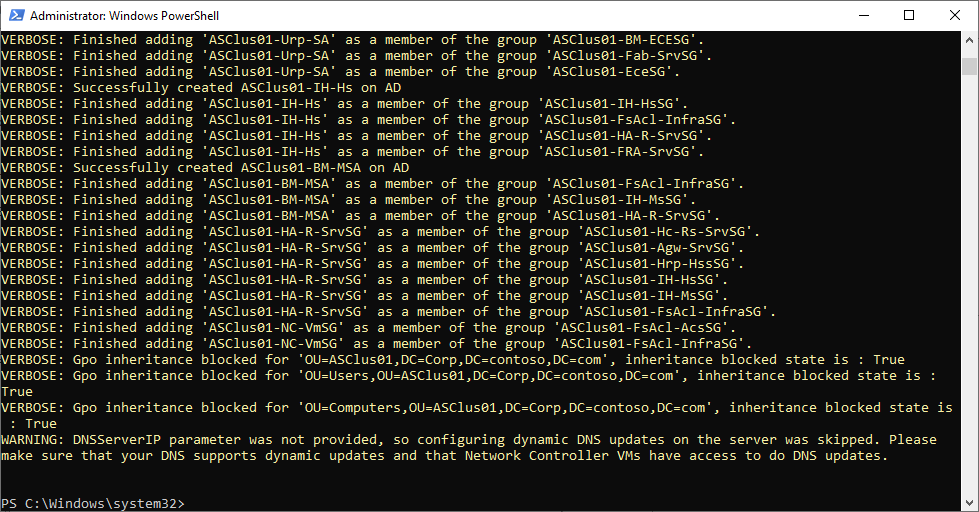
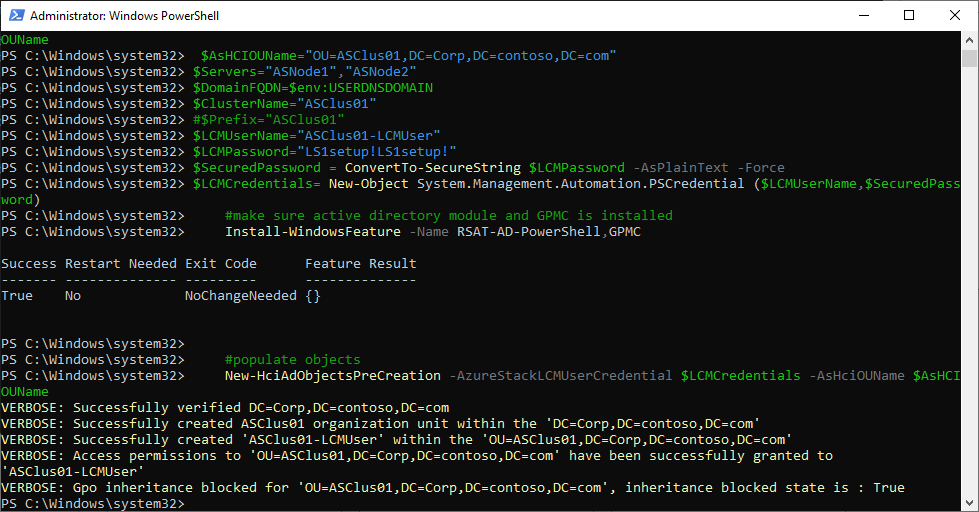
2402 update

diff --git a/lab-guides/01a-DeployAzureStackHCICluster-CloudBasedDeployment/readme.md b/lab-guides/01a-DeployAzureStackHCICluster-CloudBasedDeployment/readme.md
@@ -2,7 +2,7 @@
 
 <!-- TOC -->
 
-- [Deploy Azure Stack HCI Cluster 23H2 using Cloud Based Deployment](#deploy-azure-stack-hci-cluster-23h2-using-cloud-based-deployment-preview)
+- [Deploy Azure Stack HCI Cluster 23H2 using Cloud Based Deployment](#deploy-azure-stack-hci-cluster-23h2-using-cloud-based-deployment)
     - [About the lab](#about-the-lab)
     - [Prerequisites](#prerequisites)
     - [LabConfig](#labconfig)
@@ -78,14 +78,14 @@ This task will be performed in elevated powershell window in Management machine
 
 ```PowerShell
 $AsHCIOUName="OU=ASClus01,DC=Corp,DC=contoso,DC=com"
-$Servers="ASNode1","ASNode2"
-$DomainFQDN=$env:USERDNSDOMAIN
-$ClusterName="ASClus01"
-$Prefix="ASClus01"
-$UserName="ASClus01-DeployUser"
-$Password="LS1setup!LS1setup!"
-$SecuredPassword = ConvertTo-SecureString $password -AsPlainText -Force
-$Credentials= New-Object System.Management.Automation.PSCredential ($UserName,$SecuredPassword)
+#$Servers="ASNode1","ASNode2"
+#$DomainFQDN=$env:USERDNSDOMAIN
+#$ClusterName="ASClus01"
+#$Prefix="ASClus01"
+$LCMUserName="ASClus01-LCMUser"
+$LCMPassword="LS1setup!LS1setup!"
+$SecuredPassword = ConvertTo-SecureString $LCMPassword -AsPlainText -Force
+$LCMCredentials= New-Object System.Management.Automation.PSCredential ($LCMUserName,$SecuredPassword)
 
 #install posh module for prestaging Active Directory
 Install-PackageProvider -Name NuGet -Force
@@ -94,12 +94,14 @@ Install-Module AsHciADArtifactsPreCreationTool -Repository PSGallery -Force
 ```
 **Step 2** Populate objects into Active Directory
 
+> note: in 2402 release is just OU and LCM user deployed and GPO inheritance blocked on OU
+
 ```PowerShell
     #make sure active directory module and GPMC is installed
     Install-WindowsFeature -Name RSAT-AD-PowerShell,GPMC
 
     #populate objects
-    New-HciAdObjectsPreCreation -Deploy -AzureStackLCMUserCredential  $Credentials -AsHciOUName $AsHCIOUName -AsHciPhysicalNodeList $Servers -DomainFQDN $DomainFQDN -AsHciClusterName $ClusterName -AsHciDeploymentPrefix $Prefix
+    New-HciAdObjectsPreCreation -AzureStackLCMUserCredential $LCMCredentials -AsHciOUName $AsHCIOUName
  
 ```
 
@@ -198,6 +200,8 @@ Set-Item WSMan:\localhost\Client\TrustedHosts -Value $($TrustedHosts -join ',') 
 
 > Below code is using virtual account to kick off deployment of updates via COM. With virtual account it will be ran under with local system account instead of user account. If I would use user account remotely, it would fail.
 
+> Cumulative updates are optional
+
 ```PowerShell
 Invoke-Command -ComputerName $servers -ScriptBlock {
     Enable-WindowsOptionalFeature -FeatureName Microsoft-Hyper-V -Online -NoRestart
@@ -280,7 +284,17 @@ Invoke-Command -ComputerName $Servers -ScriptBlock {
  
 ```
 
-**Step 5** Deploy ARC agent with Invoke-AzStackHCIarcInitialization
+**Step 5** Make sure resource providers are registered
+
+```PowerShell
+Register-AzResourceProvider -ProviderNamespace "Microsoft.HybridCompute"
+Register-AzResourceProvider -ProviderNamespace "Microsoft.GuestConfiguration"
+Register-AzResourceProvider -ProviderNamespace "Microsoft.HybridConnectivity"
+Register-AzResourceProvider -ProviderNamespace "Microsoft.AzureStackHCI"
+ 
+```
+
+**Step 6** Deploy ARC agent with Invoke-AzStackHCIarcInitialization
 
 ```PowerShell
 #deploy ARC Agent
@@ -312,7 +326,37 @@ Invoke-Command -ComputerName $Servers -ScriptBlock {
  
 ```
 
-**Step 2** Configure current user to be Keay Vault Administrator on ASClus01 resource group
+
+**Step 2** Configure NTP Server
+
+First you need to disable Timesync from Hyper-V. Run following command on Hyper-V Host!
+
+```PowerShell
+Get-VM *ASNode* | Disable-VMIntegrationService -Name "Time Synchronization"
+
+```
+
+And after that you can run following command from management machine to configure NTP Server
+
+```PowerShell
+$NTPServer="DC.corp.contoso.com"
+Invoke-Command -ComputerName $servers -ScriptBlock {
+    w32tm /config /manualpeerlist:$using:NTPServer /syncfromflags:manual /update
+    Restart-Service w32time
+} -Credential $Credentials
+
+Start-Sleep 20
+
+#check if source is NTP Server
+Invoke-Command -ComputerName $servers -ScriptBlock {
+    w32tm /query /source
+} -Credential $Credentials
+ 
+```
+
+![](./media/powershell09.png)
+
+**Step 3** Configure current user to be Key Vault Administrator on ASClus01 resource group
 
 ```PowerShell
 #add key vault admin of current user to Resource Group
@@ -323,7 +367,7 @@ Invoke-Command -ComputerName $Servers -ScriptBlock {
 
 ![](./media/edge04.png)
 
-**Step 3** Configure new admin password on nodes (as Cloud Deployment requires at least 12chars)
+**Step 4** Configure new admin password on nodes (as Cloud Deployment requires at least 12chars)
 
 ```PowerShell
 #change password of local admin to be at least 12 chars
@@ -361,8 +405,8 @@ Networking
     Network adapter 2:          Ethernet 2
     Network adapter 2 VLAN ID:  712 (default)
 
-    Starting IP:                10.0.0.100
-    ENding IP:                  10.0.0.110
+    Starting IP:                10.0.0.111
+    ENding IP:                  10.0.0.116
     Subnet mask:                255.255.255.0
     Default Gateway:            10.0.0.1
     DNS Server:                 10.0.0.1
@@ -410,9 +454,7 @@ Tags:
 
 ![](./media/edge13.png)
 
-**Step 3** Validation process will take some time. And if all goes OK, it will succesfully review cluster
-
-![](./media/edge14.png)
+**Step 3** Validation process will take some time. And if all goes OK, it will succesfully validate cluster
 
 ![](./media/edge15.png)
 
